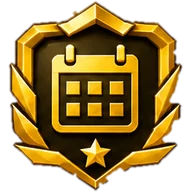
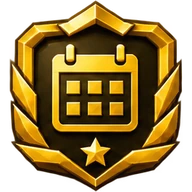
Медали из прозрачной картинки игрока без обработки
Claude-Session: https://claude.ai/code/session_01VPT8fuKy7RYZd7Y4zjMWjz

diff --git a/index.html b/index.html
@@ -2182,7 +2182,7 @@ function medalTitle(m) {
 // картинки медалей лежат в папке medals/
 function medalSVG(m, size = 34) {
   const key = m.k === "h" || m.k === "x" ? m.k : m.k + m.p;
-  return `<img class="medal" src="medals/${key}.webp?v=2" width="${size}" height="${size}" alt="" decoding="async">`;
+  return `<img class="medal" src="medals/${key}.webp?v=3" width="${size}" height="${size}" alt="" decoding="async">`;
 }
 const medalCounts = list => { const c = { dg: 0, ds: 0, db: 0, wg: 0, ws: 0, wb: 0, mg: 0, ms: 0, mb: 0, h: 0, x: 0 }; for (const m of list) { if (m.k === "h" || m.k === "x") c[m.k]++; else c[m.k + "gsb"[m.p - 1]]++; } return c; };
 let medalsBusy = false;

diff --git a/sw.js b/sw.js
@@ -1,5 +1,5 @@
 // Офлайн-режим: сначала сеть (чтобы сразу видеть обновления), без сети — из кэша.
-const CACHE = "formulograf-v6";
+const CACHE = "formulograf-v7";
 const CORE = ["./", "index.html", "manifest.webmanifest", "icon-180.png", "icon-192.png", "icon-512.png"];
 self.addEventListener("install", e => { e.waitUntil(caches.open(CACHE).then(c => c.addAll(CORE))); self.skipWaiting(); });
 self.addEventListener("activate", e => {
